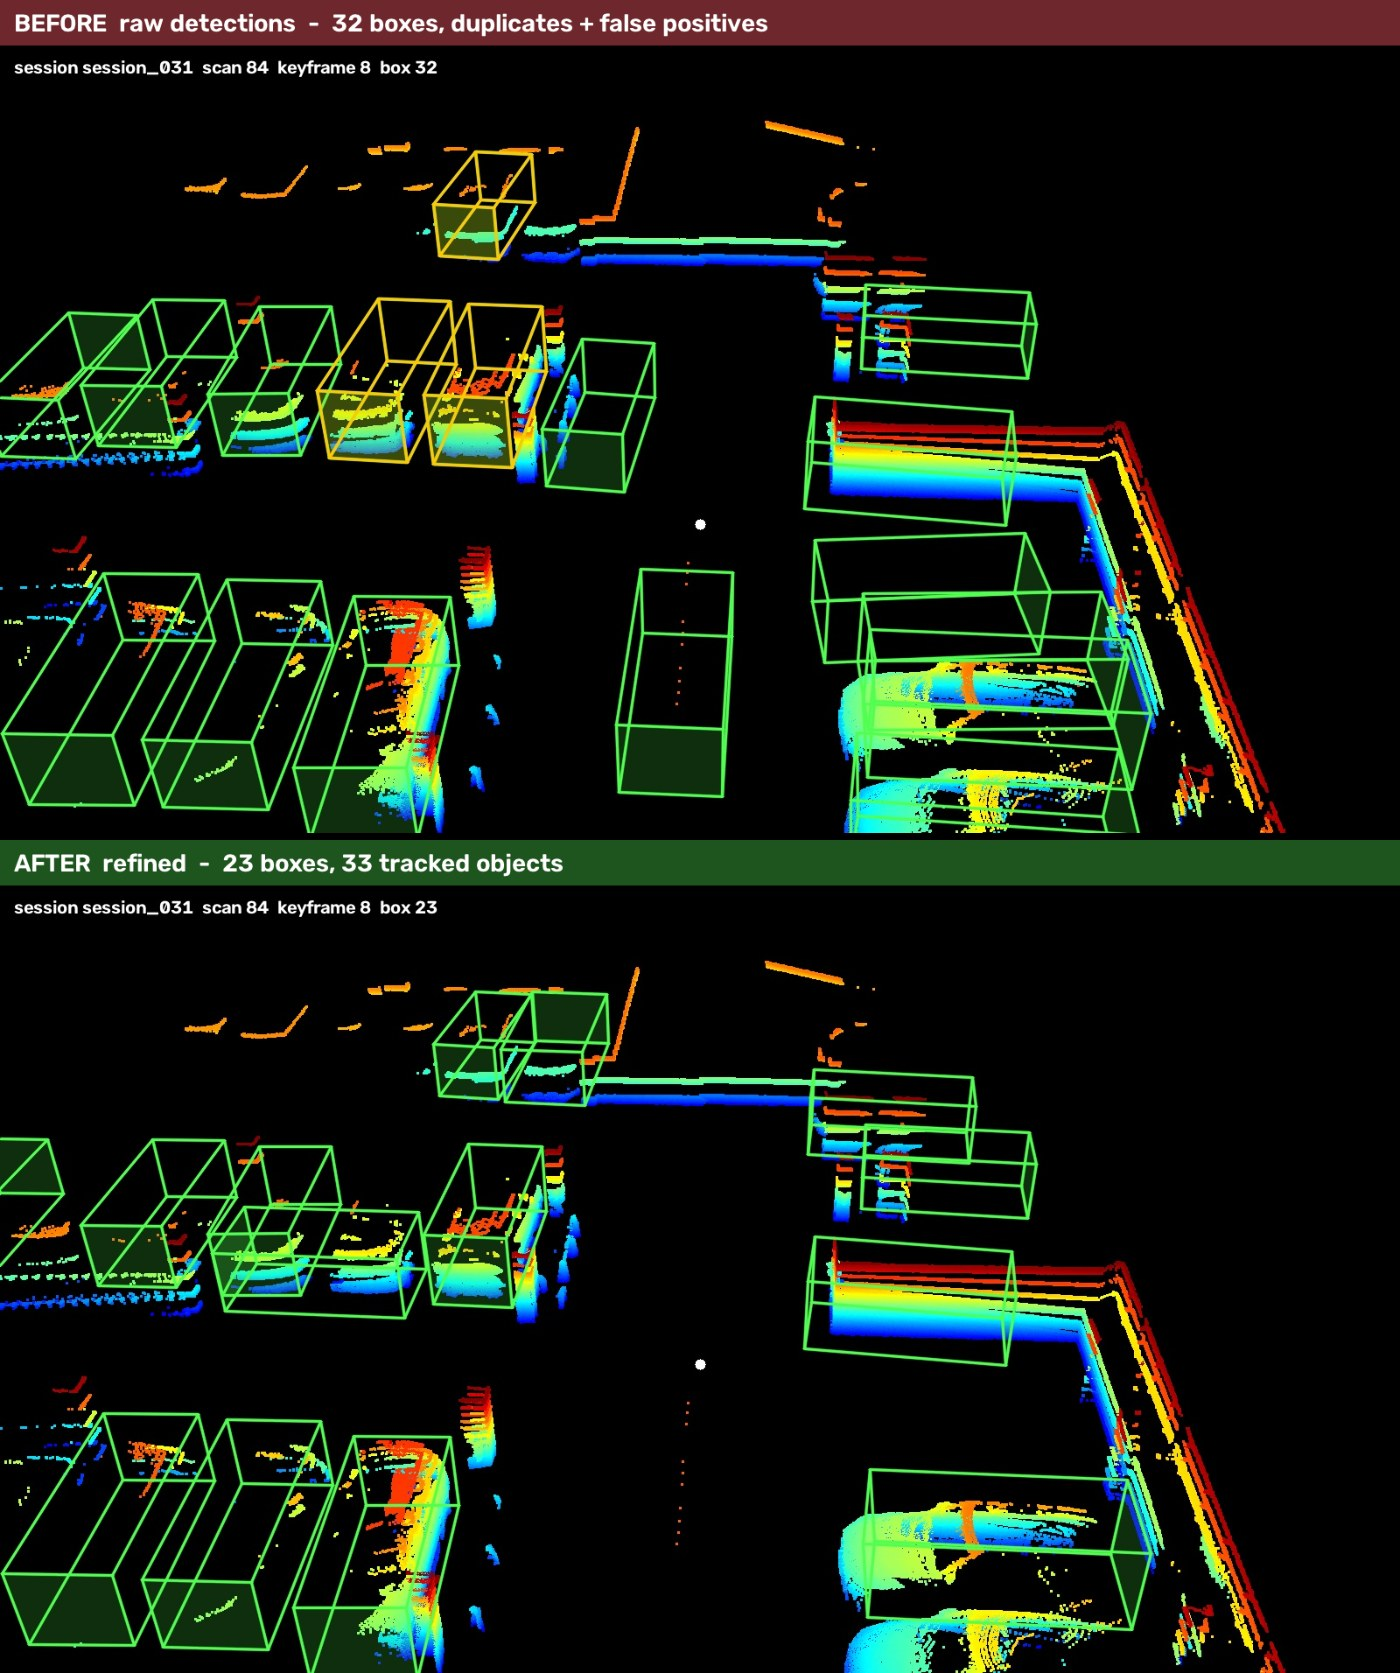
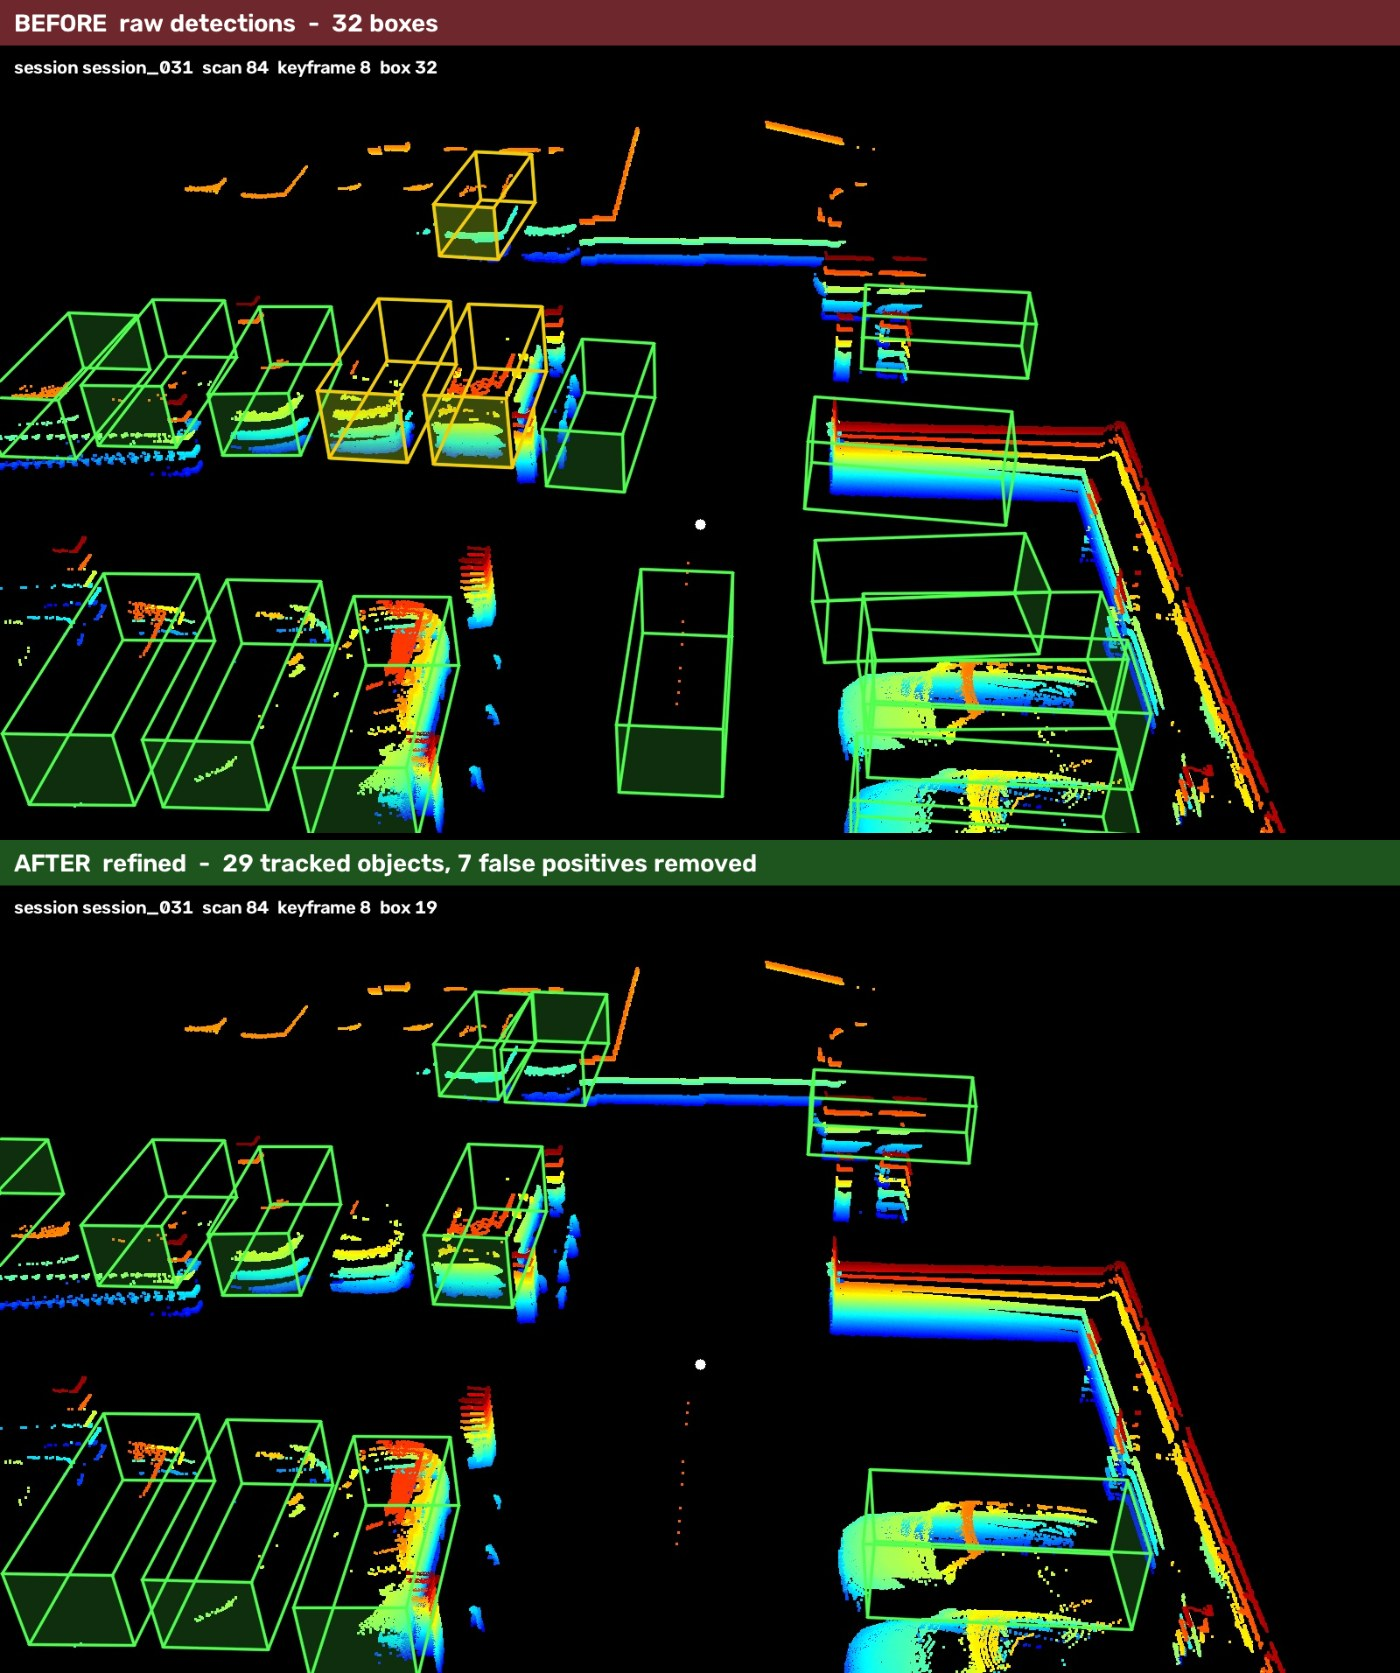
초안 다듬기: 계단·경사로와 90도 뒤집힌 박스를 거르는 기준 추가
30스윕 누적 점으로 내보낼 박스를 재면 차의 지붕과 옆모습이 드러나서,
전에는 못 가르던 것들이 갈린다.

  --max-roof-std 0.42   윗면 높이 표준편차. 차는 지붕이 평평해 0.20~0.35,
                        계단·경사로는 0.47 이상 (격자 셀 35개 이상일 때만)
  --max-row-angle 60    주변 주차열 방향과의 차(180도 주기). 주차된 차는
                        이웃과 나란하다. 정상 0~41도, 뒤집힌 박스 86~89도

session_031: 541 → 407 개, 물체 33 → 29 개. 탈락 7개 전부 비차량이고
차량은 하나도 잃지 않았다.
  T003 빈 박스 / T021·T024 벽·난간에 밀림 / T026 난간에 90도로 걸침
  T029·T030 비상계단·경사로 / T042 90도 돌아 두 차를 가로지름

고치면서 틀렸던 것 세 가지도 기록했다:
- 평탄도를 몸통대(0.3~1.8m)에서 재면 계단의 상승분이 잘려 신호가 없다
- 주차열 방향을 90도 주기로 재면 90도 뒤집힘을 일부러 무시하게 된다
- 점의 주축과 비교하는 방법은 못 쓴다. 차를 뒤에서만 보면 주축이 원래
  90도 돌아가서, 멀쩡한 박스 7%가 틀렸다고 나온다

Claude-Session: https://claude.ai/code/session_01GvGTyauCpumxwLHxDhvDyo

diff --git a/데이터_라벨링/code/refine_boxes.py b/데이터_라벨링/code/refine_boxes.py
@@ -89,6 +89,12 @@ def main():
     ap.add_argument("--min-roof-area", type=float, default=0.05,
                     help="지붕대(지면+1.15~1.8 m) 점이 박스 바닥면에서 차지하는 비율. "
                          "차는 0.08 이상, 지붕이 없는 구조물은 0.02 이하")
+    ap.add_argument("--max-roof-std", type=float, default=0.42,
+                    help="박스 윗면 높이의 표준편차(m). 차는 지붕이 평평해 0.20~0.35, "
+                         "계단·경사로는 0.47 이상. 격자 셀 35 개 이상일 때만 적용")
+    ap.add_argument("--max-row-angle", type=float, default=60.0,
+                    help="주변 주차열 방향과 이만큼(도) 넘게 어긋나면 버린다. "
+                         "실측: 정상 0~41 도, 90 도 뒤집힌 박스 87~88 도")
     ap.add_argument("--continue-ratio", type=float, default=0.6,
                     help="박스 양 끝 너머로 점이 이만큼 이어지면 벽으로 본다")
     args = ap.parse_args()
@@ -442,6 +448,7 @@ def main():
                 per_track.setdefault(b["track_id"], []).append((c, b["size"], yw))
 
         drop = {}
+        keep_pose = {}
         for tid, v in per_track.items():
             c, size, yw = v[len(v) // 2]              # 중간 프레임을 대표로
             l, wd, h = size
@@ -459,10 +466,48 @@ def main():
             roof = foot & (zr > 1.15) & (zr < 1.8)
             area = (len(np.unique(np.round(lo[roof] / 0.2).astype(int), axis=0))
                     * 0.04 / (l * wd)) if roof.sum() > 20 else 0.0
+            # 윗면 평탄도 — 차는 지붕이 거의 수평이고, 계단·경사로는 올라간다.
+            # 격자 셀이 적으면 측정이 흔들리므로 35 개 이상일 때만 본다.
+            # 몸통대(0.3~1.8 m)로 재면 계단이 올라가는 부분이 잘려 신호가 사라진다.
+            # 평탄도만 2.0 m 까지 본다.
+            flat = foot & (zr > 0.3) & (zr < 2.0)
+            cell = np.round(lo[flat] / 0.35).astype(int)
+            uk, inv = np.unique(cell, axis=0, return_inverse=True)
+            roof_std = 0.0
+            if len(uk) >= 35:
+                tops = np.zeros(len(uk))
+                zb = zr[flat]
+                for ci in range(len(uk)):
+                    tops[ci] = zb[inv == ci].max()
+                roof_std = float(tops.std())
+
+            if os.environ.get("REFINE_DEBUG"):
+                print(f"     [디버그] {tid} above {above:.2f} area {area:.2f} "
+                      f"roof_std {roof_std:.3f} cells {len(uk)}")
             if above > args.max_above:
                 drop[tid] = f"지붕 위에 점이 많다 {above:.2f}"
             elif area < args.min_roof_area:
                 drop[tid] = f"지붕이 없다 {area:.2f}"
+            elif roof_std > args.max_roof_std:
+                drop[tid] = f"윗면이 평평하지 않다 {roof_std:.2f} (계단·경사로)"
+            else:
+                keep_pose[tid] = (c[:2], yw)
+        # 주변 주차열 방향과 90 도 어긋난 박스. 주차된 차는 이웃과 나란하다.
+        # 방향은 180 도 주기로 본다 (앞뒤 뒤집힘은 같은 박스, 90 도는 다른 박스).
+        if len(keep_pose) >= 5:
+            ids2 = sorted(keep_pose)
+            for tid in ids2:
+                c2, y2 = keep_pose[tid]
+                nb = [keep_pose[o][1] for o in ids2
+                      if o != tid and np.linalg.norm(keep_pose[o][0] - c2) < 12.0]
+                if len(nb) < 4:
+                    continue                       # 이웃이 적으면 판단 보류
+                dd = 2 * np.asarray(nb)
+                med = 0.5 * np.arctan2(np.sin(dd).mean(), np.cos(dd).mean())
+                diff = abs(np.degrees(wrap(2 * (y2 - med)))) / 2
+                if diff > args.max_row_angle:
+                    drop[tid] = f"주차열과 {diff:.0f} 도 어긋남"
+
         if drop:
             for f in out["frames"]:
                 f["boxes"] = [b for b in f["boxes"] if b["track_id"] not in drop]

diff --git a/session_031/README.md b/session_031/README.md
@@ -124,6 +124,8 @@ python3 데이터_라벨링/code/refine_boxes.py <세션> --poses <deskew_on> \
 | `--max-vertical` | 1.0 | 차 지붕 위 빈 구간 / 차 높이대 점 비율 (월드 평균 박스 기준) |
 | `--max-above` | **0.7** | 내보낼 박스 재검사용. 지붕 위(지면+1.95~2.8 m) 점 / 몸통대(0.3~1.8 m) 점. 실측: 차 0.00~0.57, 오탐 0.76 이상 |
 | `--min-roof-area` | **0.05** | 지붕대 점이 박스 바닥면에서 차지하는 비율. 실측: 차 0.08 이상, 지붕 없는 구조물 0.02 이하 |
+| `--max-roof-std` | **0.42** | 박스 윗면 높이의 표준편차(m). 차는 지붕이 평평해 0.20~0.35, 계단·경사로는 0.47 이상. 격자 셀 35 개 이상일 때만 적용 |
+| `--max-row-angle` | **60** | 주변 주차열 방향과 어긋난 각도(도). 주차된 차는 이웃과 나란하다. 실측: 정상 0~41 도, 90 도 뒤집힌 박스 86~89 도 |
 | `--min-car-points` | 50 | 차 높이대(지면+0.3~2.0 m) 점이 이보다 적으면 버린다 |
 | `--continue-ratio` | 0.6 | 박스 양 끝 너머로 점이 이만큼 이어지면 벽으로 본다 |
 | `--no-refit` | 끔 | 점에 맞춰 크기·방향 재측정 |
@@ -143,71 +145,45 @@ python3 데이터_라벨링/code/refine_boxes.py <세션> --poses <deskew_on> \
 | 6 | 모양 검사 (벽 3 · 점부족 3 · 수직구조물 1 탈락) | **36 개** |
 | 7 | 모든 키프레임에 다시 뿌림. **기하는 원본 검출 그대로**, 없는 프레임만 전파 | 원본 **393** · 전파 **148** |
 | 8 | 트랙 ID 부여 | 36 개 |
-| 9 | **내보낼 박스로 다시 모양 검사** | 3 개 탈락 → **33 개** |
+| 9 | **내보낼 박스로 다시 모양 검사** | 7 개 탈락 → **29 개** |
 
-**최종: 690 → 481 개 (프레임당 27.6 → 19.2), 물체 33 개**
+**최종: 690 → 407 개 (프레임당 27.6 → 16.3), 물체 29 개**
 
 ### 9 — 왜 모양 검사를 두 번 하나
 
-6 단계 검사는 **월드 평균 박스**를 본다. 그런데 실제로 나가는 것은 8 단계에서 **원본 검출 기하로 바뀐 박스**다. 둘이 다르면 검사를 통과한 박스가 엉뚱한 곳에 놓인 채 나간다. session_031 에서 벽·난간에 걸친 박스 3 개가 이렇게 빠져나갔다.
+6 단계 검사는 **월드 평균 박스**를 본다. 그런데 실제로 나가는 것은 8 단계에서 **원본 검출 기하로 바뀐 박스**다. 둘이 다르면 검사를 통과한 박스가 엉뚱한 곳에 놓인 채 나간다. session_031 에서 벽·난간에 걸친 박스가 이렇게 빠져나갔다.
 
-그래서 **내보낼 박스 자체를 다시 잰다.** 30 스윕 누적 점으로 차의 옆모습을 보면 기준이 뚜렷해진다.
+그래서 **내보낼 박스 자체를 다시 잰다.** 30 스윕 누적 점으로 보면 차의 옆모습·지붕이 드러나 기준이 뚜렷해진다.
 
-| 트랙 | 지붕 위 비율 | 정체 |
+| 기준 | 차량 31 개 실측 | 탈락한 것 |
 |---|---|---|
-| T003 | 0.76 | 점이 거의 없는 빈 박스 |
-| T021 | **5.61** | 차에서 밀려 난간·바닥을 감쌈 |
-| T024 | **4.91** | 차에서 밀려 벽을 감쌈 |
-| (차량 31 개) | 0.00 ~ 0.57 | — |
+| **지붕 위에 점이 많은가** (지면+1.95~2.8 m / 몸통대) | 0.00 ~ **0.57** | T003 0.76 · T021 **5.61** · T024 **4.91** |
+| **지붕이 있는가** (지붕대 점의 바닥면 점유율) | **0.08** 이상 | — (위 기준과 겹침) |
+| **윗면이 평평한가** (윗면 높이 표준편차 m) | 0.20 ~ **0.35** | T029 **0.47** · T030 **0.53** |
+| **주차열과 나란한가** (이웃 방향과의 차, 180 도 주기) | 0 ~ **41** 도 | T026 **86** 도 · T042 **89** 도 |
 
-차량 최대값 0.57 과 오탐 최소값 0.76 사이가 비어 있어, 임계값 0.7 로 **차량을 하나도 잃지 않고** 3 개를 걸러낸다.
+**7 개 트랙이 탈락했고 차량은 하나도 잃지 않았다.** 네 기준 모두 차량 범위와 탈락군 사이가 비어 있다.
 
-### 아직 못 거르는 것
-
-**경사로 2 개(T029 · T030)는 남는다.** 지붕 위 비율 0.27 · 0.59, 지붕 면적 0.34 · 0.25 로 차량 범위 안에 있다. 바닥 기울기도 재봤으나 차량 T028 이 0.171 로 더 커서 갈리지 않았다. 이 둘은 10 단계에서 사람이 지워야 한다.
-
-### 왜 기하를 원본에서 가져오나
-
-처음에는 월드 좌표에서 평균내 박스를 다시 만들었는데 **원본보다 나빠졌다.**
-
-| | 오차 구성 |
+| 탈락 | 정체 |
 |---|---|
-| 원본 박스 | 검출기 오차 |
-| 월드 평균 박스 | 검출기 오차(평균되어 감소) **+ ego pose 오차 (원본엔 없던 것)** |
+| T003 | 점이 거의 없는 빈 박스 |
+| T021 · T024 | 차에서 밀려 난간·벽을 감쌈 |
+| T026 | 난간(또는 카트열)에 90 도로 걸침 |
+| T029 · T030 | **비상계단 · 경사로** |
+| T042 | 90 도 돌아가 두 차를 가로지름 |
 
-원본 검출은 그 프레임의 점으로 그 프레임 좌표에서 계산된 것이라 오도메트리 오차가 없다. 그래서 **판별(오탐 제거·빠진 프레임 채우기·트랙 ID)만 다듬기에서 하고, 박스 기하는 원본을 그대로 쓴다.**
+### 기준을 고를 때 틀렸던 것
 
-**박스가 점을 감싸는 정도** (1 에 가까울수록 딱 맞음):
-
-| | 길이축 | 폭축 |
-|---|---|---|
-| 원본 검출 | 0.559 | 0.689 |
-| 월드 평균 (버린 방식) | 0.579 | **0.639** |
-| **원본 기하 유지 (현재)** | 0.580 | **0.686** |
-
-### 전후
-
-![다듬기 전후](다듬기_전후.jpg)
-
-중앙에 떠 있던 빈 박스와 주황색 `truck` 오탐이 사라지고, 겹친 박스가 하나로 정리됐다. 이 프레임에서 32 → 23 개다.
-
-### 검증 — 박스 안에 점이 있는가
-
-30 스윕 누적, 차 높이대(지면+0.25~2.2 m) 기준, 박스 481 개:
-
-| 박스 안 점 | 개수 |
-|---|---|
-| 0 (완전히 빔) | **0** |
-| 1~20 | 4 (0.7 %) |
-| 21~100 | 25 (4.6 %) |
-| 101~500 | 90 (16.6 %) |
-| **500 이상** | **422 (78 %)** |
-
-중앙값 **1,547 점**. 점이 20 개 이하인 4 개는 전부 15 m 이상 멀거나 전파된 박스다.
+- **처음에는 `--max-vertical` 을 1.0 → 0.6 까지 낮춰도 탈락 수가 그대로였다.** 그 검사가 월드 평균 박스를 보기 때문이다. 검사 대상과 출력이 다르면 임계값을 아무리 조여도 소용없다.
+- **윗면 평탄도를 몸통대(0.3~1.8 m)에서 재면 신호가 사라진다.** 계단이 올라가는 부분이 잘려 나가기 때문이다. 평탄도만 **2.0 m** 까지 본다.
+- **주차열 방향을 90 도 주기로 재면 아무것도 안 걸린다.** 90 도 뒤집힘을 일부러 무시하는 설정이기 때문이다. **180 도 주기**로 봐야 한다.
+- **점의 주축(minAreaRect)과 박스 방향을 비교하는 방법은 쓸 수 없다.** 주차장은 차를 뒤에서만 보는 경우가 많고, 그러면 점이 차 폭 방향으로 한 줄이라 주축이 원래 90 도 돌아간다. 이 방법으로는 멀쩡한 박스 7 % 가 틀렸다고 나왔다.
 
 ### 한계
 
-**정지 물체를 전제한다.** 주행 중인 차가 있는 데이터에는 그대로 쓰면 안 된다. 그리고 벽·기둥 오탐이 모두 걸러지지는 않는다 — 결과는 **초안**이고 10 단계에서 사람이 확인해야 한다.
+**규칙은 session_031 한 세션에서 맞춘 것이다.** 탈락 표본이 7 개뿐이라, 다른 세션에서 멀쩡한 차를 지울 수 있다. 나머지 세션에 돌린 뒤 탈락 목록을 반드시 눈으로 확인해야 한다.
+
+**정지 물체를 전제한다.** 주행 중인 차가 있는 데이터에는 그대로 쓰면 안 된다. 결과는 **초안**이고 10 단계에서 사람이 확인해야 한다.
 
 ## 8. 포맷 변환 (ReBound)
 
@@ -222,9 +198,9 @@ python3 데이터_라벨링/code/to_rebound.py <세션> --poses <deskew_on> --ke
 
 ```
 rebound/session_031/
-├── bounding/0~24/boxes.json          481 개  ← 여기서 작업 (confidence 100)
-├── pred_bounding/0~24/boxes.json     481 개  ← 비교용
-└── pred_bounding_original/           481 개  ← 백업
+├── bounding/0~24/boxes.json          407 개  ← 여기서 작업 (confidence 100)
+├── pred_bounding/0~24/boxes.json     407 개  ← 비교용
+└── pred_bounding_original/           407 개  ← 백업
 ```
 
 용량 408 MB (10 스윕일 때 213 MB). 박스 `id` 가 곧 트랙 ID 라 **프레임이 바뀌어도 같은 차는 같은 ID** 다.
@@ -263,4 +239,4 @@ python3 데이터_라벨링/code/render_lidar_3d.py <세션> --poses <deskew_on>
 
 ## 10 단계부터 할 일
 
-사람이 ReBound 에서 박스 481 개를 확인·수정한다. 남은 오탐(벽·기둥)과 어긋난 박스는 **검출기 자체의 오차**이며 자동으로는 더 줄이지 못한다.
+사람이 ReBound 에서 박스 407 개를 확인·수정한다. 남은 오탐(벽·기둥)과 어긋난 박스는 **검출기 자체의 오차**이며 자동으로는 더 줄이지 못한다.
